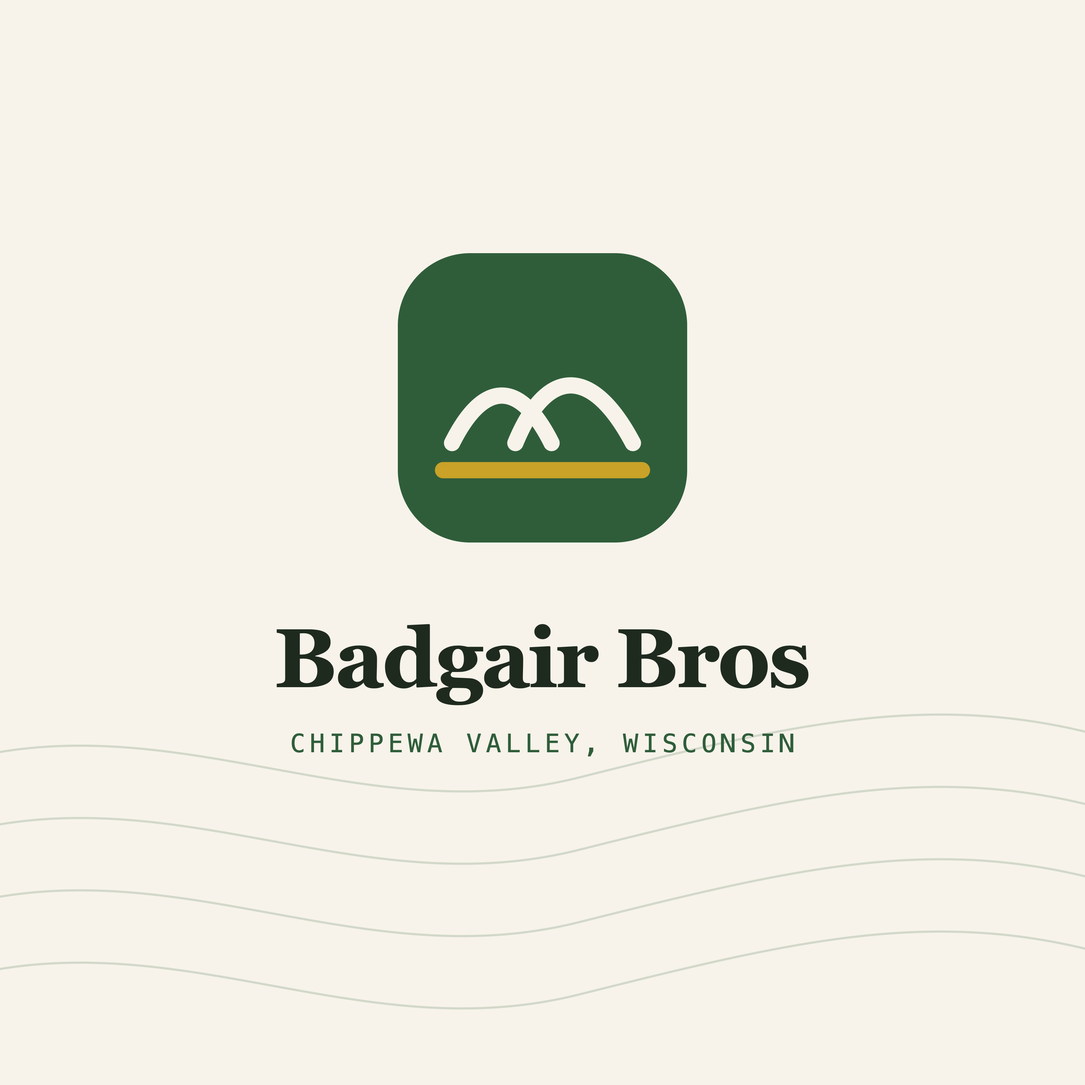
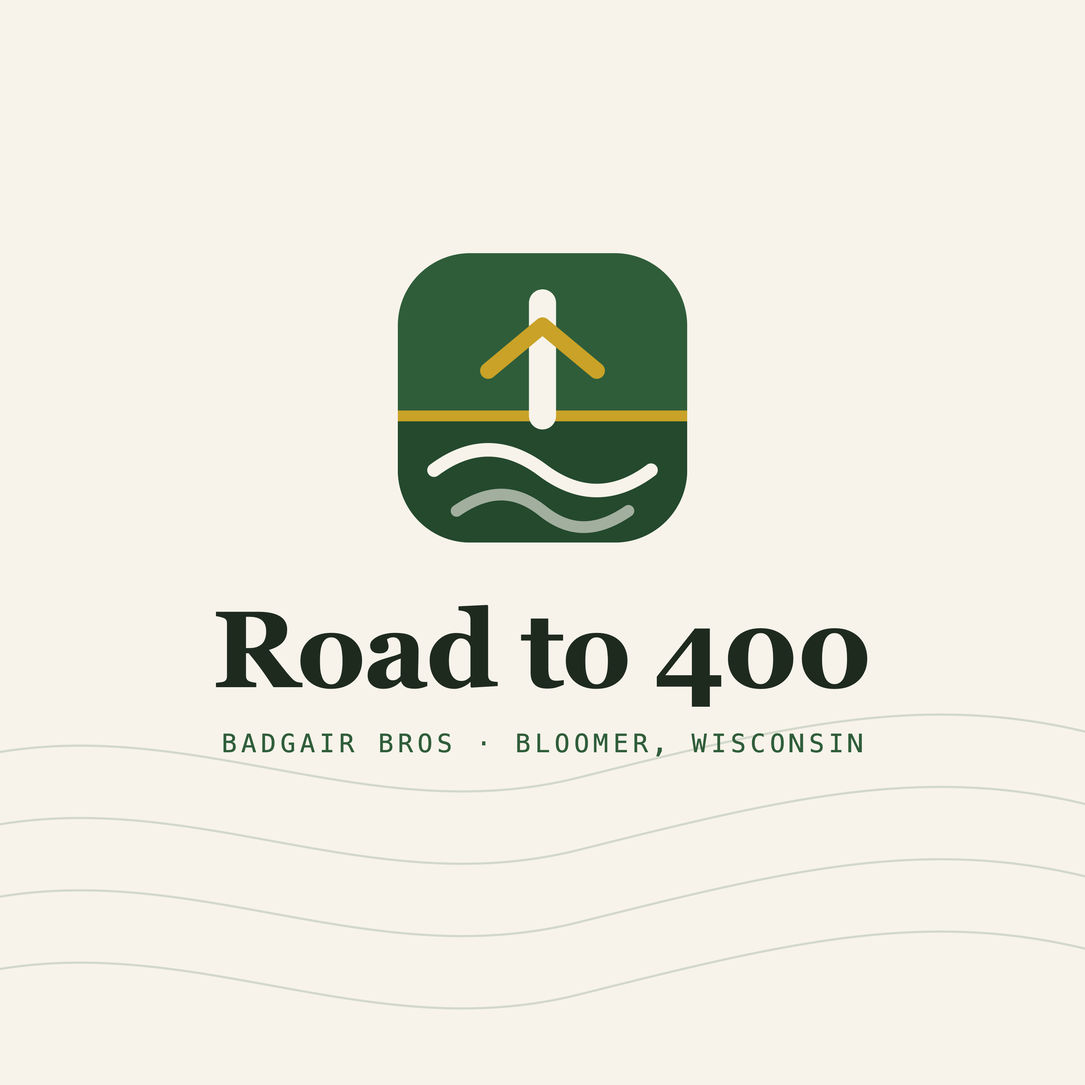
Pinned scroll scene (fly, stitch, read, file) replaces the pointer effects; provisional badger-ground-air mark; Road to 400 podcast copy and cover; quote wording

Changed region(s): [[0.186, 0.558, 0.806, 0.713], [0.372, 0.248, 0.651, 0.496]]

diff --git a/src/app/page.tsx b/src/app/page.tsx
@@ -2,12 +2,9 @@ import Image from "next/image";
 import { site } from "@/lib/site";
 import Reveal from "@/components/reveal";
 import SiteNav from "@/components/nav";
-import Tilt from "@/components/tilt";
 import CountUp from "@/components/count-up";
-import Spotlight from "@/components/spotlight";
-import Canopy from "@/components/canopy";
 import Compare from "@/components/compare";
-import Magnet from "@/components/magnet";
+import Scrolly from "@/components/scrolly";
 import { getEpisodes } from "@/lib/podcast";
 import { BadgairMark, AcrefileMark, Arrow } from "@/components/marks";
 
@@ -47,7 +44,6 @@ export default async function Home() {
 
       {/* ---------- hero ---------- */}
       <section className="relative z-10 mx-auto grid max-w-[1280px] items-center gap-10 px-5 pb-16 pt-14 sm:px-8 lg:grid-cols-12 lg:gap-8 lg:pb-20 lg:pt-20">
-        <Canopy className="absolute inset-0 -z-10 h-full w-full" />
         <div className="relative flex flex-col gap-7 lg:col-span-7 lg:gap-8">
           <p className="mono rise d1 flex items-center gap-3.5 text-[12px] text-moss">
             <span className="h-px w-7 bg-moss" />
@@ -62,30 +58,22 @@ export default async function Home() {
             Drone field mapping and a grower-owned record for the farms of {site.region}. We fly it, your agronomist signs it, and the file is yours for good.
           </p>
           <div className="rise d4 flex flex-wrap items-center gap-3.5">
-            <Magnet href={mailto} className="group flex h-[52px] items-center gap-2.5 rounded-full bg-moss px-6 text-[15px] font-medium text-paper hover:bg-moss-deep hover:shadow-[0_14px_30px_-14px_rgba(47,93,58,0.7)]">
+            <a href={mailto} className="group flex h-[52px] items-center gap-2.5 rounded-full bg-moss px-6 text-[15px] font-medium text-paper transition-[background-color,box-shadow] duration-300 hover:bg-moss-deep hover:shadow-[0_14px_30px_-14px_rgba(47,93,58,0.7)]">
               Book a flight <Arrow className="transition-transform duration-300 group-hover:translate-x-1" />
-            </Magnet>
-            <Magnet href={site.acrefileUrl} className="flex h-[52px] items-center rounded-full border border-line-strong px-6 text-[15px] font-medium text-ink hover:bg-paper-deep">See Acrefile</Magnet>
+            </a>
+            <a href={site.acrefileUrl} className="flex h-[52px] items-center rounded-full border border-line-strong px-6 text-[15px] font-medium text-ink transition-colors duration-300 hover:bg-paper-deep">See Acrefile</a>
           </div>
         </div>
 
         {/* the real field */}
-        <Tilt className="rise d3 lg:col-span-5">
-          <div className="drift overflow-hidden rounded-[22px] border border-line bg-surface shadow-[0_30px_60px_-30px_rgba(31,42,31,0.45),0_2px_4px_rgba(31,42,31,0.06)]">
+        <div className="rise d3 lg:col-span-5">
+          <div className="overflow-hidden rounded-[22px] border border-line bg-surface shadow-[0_30px_60px_-30px_rgba(31,42,31,0.45),0_2px_4px_rgba(31,42,31,0.06)]">
             <div className="relative aspect-[520/380] overflow-hidden bg-paper-deep">
               <Image src="/h3-ortho.jpg" alt="Orthomosaic of field H-3, flown 2 September 2026" fill priority sizes="(min-width: 1024px) 520px, 100vw" className="object-cover" />
-              <div className="sheen pointer-events-none absolute inset-0" />
-              <div className="scanline pointer-events-none absolute inset-x-0 top-0 h-[18%] bg-gradient-to-b from-transparent via-paper/25 to-transparent" />
               <svg viewBox="0 0 640 380" className="absolute inset-0 h-full w-full" preserveAspectRatio="none" aria-hidden="true">
                 <path d={FLIGHT} className="flight-path" fill="none" stroke="#f7f3ea" strokeWidth="1.6" strokeDasharray="6 6" strokeOpacity="0.95" />
                 <g fill="#c9a227" stroke="#1f2a1f" strokeWidth="1">
                   {WAYPOINTS.map(([x, y], i) => <circle key={i} cx={x} cy={y} r="4.5" className="waypoint" style={{ animationDelay: `${0.9 + i * 0.42}s` }} />)}
-                </g>
-                {/* the drone, riding the path once it is drawn */}
-                <g className="drone" style={{ offsetPath: `path("${FLIGHT}")` }}>
-                  <circle r="9" fill="rgba(247,243,234,0.18)" />
-                  <circle r="4" fill="#f7f3ea" stroke="#1f2a1f" strokeWidth="1" />
-                  <path d="M-7 -7 L7 7 M-7 7 L7 -7" stroke="#f7f3ea" strokeWidth="1.2" />
                 </g>
               </svg>
               <span className="mono absolute left-3.5 top-3.5 rounded-full bg-ink/75 px-2.5 py-1.5 text-[10px] text-paper">Flown by us</span>
@@ -100,7 +88,7 @@ export default async function Home() {
               ))}
             </dl>
           </div>
-        </Tilt>
+        </div>
       </section>
 
       {/* ---------- principles ---------- */}
@@ -126,6 +114,17 @@ export default async function Home() {
         </div>
       </div>
 
+      {/* ---------- pinned: how a flight becomes a record ---------- */}
+      <Scrolly
+        image="/h3-ortho.jpg"
+        steps={[
+          { kicker: "01 · Fly", title: "We fly it in the right light.", body: "Wind, sun angle and shutter speed decide the day. The drone flies a lawnmower pattern and shoots a photo every couple of seconds. This flight: 35 photos, nine minutes." },
+          { kicker: "02 · Stitch", title: "Our machine stitches it into one map.", body: "The photos are matched, meshed and blended into a single orthomosaic you can measure from. Fifty-three seconds for this field. No cloud, no monthly fee." },
+          { kicker: "03 · Read", title: "Then you read the field, not a pixel.", body: "Wet corners, skips in the stand, the pasture your cattle actually use. Five centimetres per pixel is enough to count plants." },
+          { kicker: "04 · File", title: "It lands on your record, signed.", body: "The map is filed to the field in Acrefile beside your soil numbers, in words, with your agronomist’s signed recommendation on top. Opened from a text." },
+        ]}
+      />
+
       {/* ---------- what we do ---------- */}
       <section className="relative z-10 mx-auto flex max-w-[1280px] flex-col gap-10 px-5 pb-24 pt-20 sm:px-8 lg:pt-28">
         <div className="flex flex-col items-start justify-between gap-6 lg:flex-row lg:items-end lg:gap-10">
@@ -141,17 +140,10 @@ export default async function Home() {
         <div className="grid gap-6 lg:grid-cols-12">
           {/* mapping */}
           <article id="mapping" className="reveal group relative flex min-h-[460px] flex-col justify-between overflow-hidden rounded-[24px] bg-ink p-8 text-paper transition-transform duration-500 hover:-translate-y-1 sm:p-10 lg:col-span-7">
-            <svg viewBox="0 0 760 460" className="absolute inset-0 h-full w-full opacity-90" preserveAspectRatio="none" aria-hidden="true">
-              <defs><clipPath id="fld"><path d="M420 70 C 520 40, 660 60, 720 110 L 730 330 C 640 380, 520 400, 440 370 Z" /></clipPath></defs>
-              <g clipPath="url(#fld)">
-                <rect x="400" y="30" width="360" height="400" fill="#2f5d3a" />
-                <g stroke="#3f7e48" strokeWidth="10" strokeLinecap="round" fill="none" strokeOpacity="0.9">
-                  {Array.from({ length: 11 }, (_, i) => <path key={i} className="swath" style={{ animationDelay: `${i * 0.09}s` }} d={`M410 ${100 + i * 24} L 740 ${100 + i * 24}`} />)}
-                </g>
-                <g fill="#c9a227" fillOpacity="0.55"><rect x="560" y="140" width="70" height="40" /><rect x="640" y="230" width="50" height="60" /></g>
+            <svg viewBox="0 0 760 460" className="absolute inset-0 h-full w-full opacity-70" preserveAspectRatio="none" aria-hidden="true">
+              <g fill="none" stroke="#3f7e48" strokeWidth="1" strokeOpacity="0.5">
+                {Array.from({ length: 9 }, (_, i) => <path key={i} d={`M380 ${60 + i * 46} C 480 ${20 + i * 46}, 600 ${100 + i * 46}, 780 ${50 + i * 46}`} />)}
               </g>
-              <path d="M420 70 C 520 40, 660 60, 720 110 L 730 330 C 640 380, 520 400, 440 370 Z" fill="none" stroke="#f7f3ea" strokeWidth="1.5" strokeOpacity="0.8" />
-              <path d="M440 380 L 470 80 L 500 380 L 530 80 L 560 380 L 590 80 L 620 380 L 650 80 L 680 380 L 710 80" fill="none" stroke="#f7f3ea" strokeWidth="1" strokeDasharray="5 6" strokeOpacity="0.6" />
             </svg>
             <div className="relative flex max-w-[360px] flex-col gap-3.5">
               <p className="mono text-[12px] text-wheat">01 · Field mapping</p>
@@ -237,7 +229,7 @@ export default async function Home() {
       </section>
 
       {/* ---------- the first flight, in numbers ---------- */}
-      <Spotlight className="z-10 overflow-hidden bg-night text-paper">
+      <section className="relative z-10 overflow-hidden bg-night text-paper">
         <svg viewBox="0 0 1440 120" className="absolute bottom-0 left-0 h-[120px] w-full opacity-35" preserveAspectRatio="none" aria-hidden="true">
           <g stroke="#2f5d3a" strokeWidth="3" strokeLinecap="round">
             {Array.from({ length: 72 }, (_, i) => { const h = 12 + ((i * 37) % 48); return <line key={i} x1={20 + i * 20} y1={65 - h / 2} x2={20 + i * 20} y2={65 + h / 2} />; })}
@@ -269,7 +261,7 @@ export default async function Home() {
             ))}
           </ol>
         </div>
-      </Spotlight>
+      </section>
 
       {/* ---------- listen (appears once the feed exists) ---------- */}
       {site.podcast.feed && site.podcast.name && (

diff --git a/src/components/scrolly.tsx b/src/components/scrolly.tsx
@@ -1,0 +1,139 @@
+"use client";
+
+import Image from "next/image";
+import { useEffect, useRef, useState } from "react";
+
+/**
+ * Pinned scene. The page keeps you here while you scroll, and the field card changes
+ * through four stages: fly, stitch, read, file. Scroll progress drives every animation,
+ * so scrolling back rewinds it. No pointer tricks.
+ */
+
+export type Step = { kicker: string; title: string; body: string };
+
+const FLIGHT = "M40 330 L 110 40 L 180 330 L 250 40 L 320 330 L 390 40 L 460 330 L 530 40 L 600 330";
+const WAYPOINTS: [number, number][] = [[40, 330], [110, 40], [180, 330], [250, 40], [320, 330], [390, 40], [460, 330], [530, 40], [600, 330]];
+const HOTSPOTS: { x: number; y: number; label: string }[] = [
+  { x: 24, y: 62, label: "Wet corner" },
+  { x: 55, y: 30, label: "Skips in the stand" },
+  { x: 74, y: 78, label: "Cattle on the pasture" },
+];
+const NUMBERS = [["pH", "6.6", "in range"], ["OM", "2.4%", "in range"], ["P", "38", "high"], ["K", "97", "a little low"], ["CEC", "7.4", "lighter"], ["S", "6", "low"]];
+const COLS = 6, ROWS = 4;
+
+export default function Scrolly({ steps, image }: { steps: Step[]; image: string }) {
+  const ref = useRef<HTMLElement>(null);
+  const [p, setP] = useState(0);
+
+  useEffect(() => {
+    let raf = 0;
+    const onScroll = () => {
+      cancelAnimationFrame(raf);
+      raf = requestAnimationFrame(() => {
+        const el = ref.current;
+        if (!el) return;
+        const r = el.getBoundingClientRect();
+        const total = r.height - window.innerHeight;
+        setP(total > 0 ? Math.min(1, Math.max(0, -r.top / total)) : 0);
+      });
+    };
+    onScroll();
+    window.addEventListener("scroll", onScroll, { passive: true });
+    window.addEventListener("resize", onScroll);
+    return () => { window.removeEventListener("scroll", onScroll); window.removeEventListener("resize", onScroll); cancelAnimationFrame(raf); };
+  }, []);
+
+  const n = steps.length;
+  const stageF = p * n;
+  const stage = Math.min(n - 1, Math.floor(stageF));
+  const local = Math.min(1, stageF - stage); // 0..1 within the stage
+  const ease = (x: number) => 1 - Math.pow(1 - x, 3);
+  const fly = stage === 0 ? ease(local) : 1;
+  const stitch = stage < 1 ? 0 : stage === 1 ? local : 1;
+  const read = stage < 2 ? 0 : stage === 2 ? ease(local) : 1;
+  const file = stage < 3 ? 0 : ease(local);
+  const PATH_LEN = 2600;
+
+  return (
+    <section ref={ref} className="relative" style={{ height: `${(n + 0.6) * 100}vh` }} aria-label="How a flight becomes a record">
+      <div className="sticky top-0 flex h-screen items-center overflow-hidden">
+        <div className="mx-auto grid w-full max-w-[1280px] items-center gap-8 px-5 sm:px-8 lg:grid-cols-12">
+          {/* words */}
+          <div className="relative min-h-[200px] lg:col-span-4">
+            {steps.map((s, i) => (
+              <div key={s.title} className="absolute inset-x-0 top-0 flex flex-col gap-3 transition-[opacity,transform] duration-500" style={{ opacity: i === stage ? 1 : 0, transform: `translateY(${i === stage ? 0 : i < stage ? -16 : 16}px)`, pointerEvents: i === stage ? "auto" : "none" }}>
+                <p className="mono text-[12px] text-moss">{s.kicker}</p>
+                <h3 className="font-serif text-[clamp(30px,3.6vw,44px)] font-semibold leading-[1.05] tracking-[-0.02em]">{s.title}</h3>
+                <p className="text-[16px] leading-[1.5] text-ink-muted sm:text-[17px]">{s.body}</p>
+              </div>
+            ))}
+            <ol className="absolute -bottom-10 left-0 flex gap-2" aria-hidden="true">
+              {steps.map((s, i) => <li key={s.title} className={`h-1 rounded-full transition-[width,background-color] duration-500 ${i === stage ? "w-8 bg-moss" : "w-3 bg-line-strong"}`} />)}
+            </ol>
+          </div>
+
+          {/* scene */}
+          <div className="relative lg:col-span-8">
+            <div className="relative overflow-hidden rounded-[22px] border border-line bg-surface shadow-[0_30px_60px_-30px_rgba(31,42,31,0.45)]">
+              <div className="relative aspect-[640/380] overflow-hidden bg-paper-deep">
+                <Image src={image} alt="Orthomosaic of field H-3" fill sizes="(min-width: 1024px) 840px, 100vw" className="object-cover" style={{ opacity: 0.35 + 0.65 * stitch, filter: `saturate(${0.6 + 0.4 * stitch})`, transition: "opacity 0.2s, filter 0.2s" }} />
+
+                {/* stitch tiles */}
+                <div className="absolute inset-0 grid" style={{ gridTemplateColumns: `repeat(${COLS}, 1fr)`, gridTemplateRows: `repeat(${ROWS}, 1fr)` }} aria-hidden="true">
+                  {Array.from({ length: COLS * ROWS }, (_, i) => {
+                    const order = ((i % COLS) * 7 + Math.floor(i / COLS) * 3) % (COLS * ROWS);
+                    const on = stitch * (COLS * ROWS) > order;
+                    return <div key={i} className="border border-paper/40 transition-[opacity,background-color] duration-300" style={{ background: on ? "transparent" : "rgba(239,233,219,0.9)", opacity: stage >= 2 ? 0 : 1 }} />;
+                  })}
+                </div>
+
+                {/* flight path + drone */}
+                <svg viewBox="0 0 640 380" className="absolute inset-0 h-full w-full" preserveAspectRatio="none" aria-hidden="true" style={{ opacity: stage >= 2 ? 0.25 : 1, transition: "opacity 0.4s" }}>
+                  <path d={FLIGHT} fill="none" stroke="#f7f3ea" strokeWidth="1.6" strokeDasharray="6 6" strokeOpacity="0.95" style={{ strokeDasharray: `${PATH_LEN}`, strokeDashoffset: PATH_LEN * (1 - fly) }} />
+                  {WAYPOINTS.map(([x, y], i) => <circle key={i} cx={x} cy={y} r="4.5" fill="#c9a227" stroke="#1f2a1f" strokeWidth="1" style={{ opacity: fly * WAYPOINTS.length > i ? 1 : 0, transition: "opacity 0.2s" }} />)}
+                  <g style={{ offsetPath: `path("${FLIGHT}")`, offsetDistance: `${fly * 100}%`, offsetRotate: "0deg", opacity: stage === 0 ? 1 : 0, transition: "opacity 0.3s" }}>
+                    <circle r="10" fill="rgba(247,243,234,0.18)" />
+                    <circle r="4.5" fill="#f7f3ea" stroke="#1f2a1f" strokeWidth="1" />
+                    <path d="M-8 -8 L8 8 M-8 8 L8 -8" stroke="#f7f3ea" strokeWidth="1.3" />
+                  </g>
+                </svg>
+
+                {/* hotspots */}
+                {HOTSPOTS.map((h, i) => {
+                  const t = Math.min(1, Math.max(0, read * 3 - i));
+                  return (
+                    <div key={h.label} className="absolute flex items-center gap-2" style={{ left: `${h.x}%`, top: `${h.y}%`, transform: `translate(-6px, -6px) scale(${0.6 + 0.4 * t})`, opacity: t, transition: "opacity 0.2s, transform 0.2s" }}>
+                      <span className="relative flex h-3 w-3"><span className="absolute inline-flex h-full w-full animate-ping rounded-full bg-wheat opacity-60" /><span className="relative inline-flex h-3 w-3 rounded-full border-2 border-paper bg-wheat" /></span>
+                      <span className="mono rounded-full bg-ink/80 px-2.5 py-1 text-[10px] text-paper">{h.label}</span>
+                    </div>
+                  );
+                })}
+
+                {/* the record slides in */}
+                <div className="absolute inset-y-4 right-4 flex w-[min(300px,60%)] flex-col gap-2.5 rounded-[18px] border border-line bg-paper/95 p-4 shadow-[0_20px_50px_-20px_rgba(31,42,31,0.6)] backdrop-blur" style={{ transform: `translateX(${(1 - file) * 120}%)`, opacity: file, transition: "transform 0.25s, opacity 0.25s" }}>
+                  <p className="mono text-[10px] text-ink-faint">H-3 · Home Farm · filed</p>
+                  <div className="grid grid-cols-3 gap-1.5">
+                    {NUMBERS.map(([k, v, w], i) => (
+                      <div key={k} className="rounded-lg bg-surface p-2" style={{ opacity: file * 6 > i ? 1 : 0, transition: "opacity 0.2s" }}>
+                        <p className="text-[9px] text-ink-faint">{k}</p>
+                        <p className="font-serif text-[17px] font-semibold leading-none">{v}</p>
+                        <p className={`mt-1 inline-block rounded-full px-1 text-[8px] font-medium ${w === "low" ? "bg-[#f6e3dc] text-[#a8442c]" : w.includes("little") ? "bg-wheat-soft text-ink" : w === "in range" ? "bg-moss-soft text-moss-deep" : "bg-paper-deep text-ink-faint"}`}>{w}</p>
+                      </div>
+                    ))}
+                  </div>
+                  <div className="rounded-lg border border-wheat bg-wheat-soft p-2 text-[10px] leading-[1.35]" style={{ opacity: file > 0.85 ? 1 : 0, transition: "opacity 0.3s" }}>Hold K this year. Retest in three. <span className="font-serif italic">— signed, your agronomist</span></div>
+                </div>
+
+                <span className="mono absolute left-3.5 top-3.5 rounded-full bg-ink/75 px-2.5 py-1.5 text-[10px] text-paper">{["Flying", "Stitching", "Reading", "Filed"][stage]}</span>
+              </div>
+              <div className="flex items-center justify-between border-t border-line px-4 py-3">
+                <span className="mono text-[10px] text-ink-faint">H-3 · Home Farm · 2 Sep 2026</span>
+                <span className="mono text-[10px] text-ink-faint">{Math.round(p * 100)}%</span>
+              </div>
+            </div>
+          </div>
+        </div>
+      </div>
+    </section>
+  );
+}

diff --git a/src/app/globals.css b/src/app/globals.css
@@ -71,13 +71,9 @@ body {
 .flight-path { stroke-dasharray: 2600; stroke-dashoffset: 2600; animation: draw 4s cubic-bezier(0.4, 0, 0.2, 1) 0.9s forwards; }
 @keyframes pop { from { transform: scale(0); opacity: 0; } to { transform: scale(1); opacity: 1; } }
 .waypoint { transform-origin: center; transform-box: fill-box; animation: pop 0.35s cubic-bezier(0.2, 0.7, 0.2, 1) both; }
-@keyframes drift { from { transform: translateY(0); } to { transform: translateY(-12px); } }
-.drift { animation: drift 9s ease-in-out infinite alternate; }
-@keyframes scan { from { transform: translateY(-10%); opacity: 0; } 15% { opacity: 1; } 85% { opacity: 1; } to { transform: translateY(110%); opacity: 0; } }
-.scanline { animation: scan 7s linear 5s infinite; }
 
 @media (prefers-reduced-motion: reduce) {
-  .rise, .reveal, .flight-path, .waypoint, .drift, .scanline { animation: none !important; transition: none !important; opacity: 1 !important; transform: none !important; stroke-dashoffset: 0 !important; }
+  .rise, .reveal, .flight-path, .waypoint { animation: none !important; transition: none !important; opacity: 1 !important; transform: none !important; stroke-dashoffset: 0 !important; }
 }
 
 /* ---------- pizazz ---------- */
@@ -88,27 +84,13 @@ body {
 @keyframes lineup { to { transform: translateY(0); } }
 .mask:nth-child(1) > span { animation-delay: 0.15s; } .mask:nth-child(2) > span { animation-delay: 0.3s; } .mask:nth-child(3) > span { animation-delay: 0.45s; }
 
-/* 3D tilt card */
-.tilt > * { transform: rotateX(var(--rx, 0deg)) rotateY(var(--ry, 0deg)); transition: transform 0.35s cubic-bezier(0.2, 0.7, 0.2, 1); transform-style: preserve-3d; will-change: transform; }
-.sheen { background: radial-gradient(420px circle at var(--sx, 50%) var(--sy, 50%), rgba(247,243,234,0.22), transparent 60%); }
-
-/* The drone follows the flight path */
-@keyframes fly { from { offset-distance: 0%; } to { offset-distance: 100%; } }
-.drone { offset-rotate: 0deg; animation: fly 16s linear 4.8s infinite; }
 
 /* Ticker between sections */
 @keyframes ticker { from { transform: translateX(0); } to { transform: translateX(-50%); } }
 .ticker { animation: ticker 38s linear infinite; }
 .ticker-wrap:hover .ticker { animation-play-state: paused; }
 
-/* Swaths in the mapping card light up when the card is revealed */
-.swath { stroke-dasharray: 340; stroke-dashoffset: 340; }
-.reveal.in .swath { animation: draw-swath 1.1s cubic-bezier(0.4, 0, 0.2, 1) forwards; }
-@keyframes draw-swath { to { stroke-dashoffset: 0; } }
 
-/* Pointer spotlight on the dark band */
-.spotlight { position: relative; }
-.spotlight::before { content: ""; position: absolute; inset: 0; pointer-events: none; background: radial-gradient(560px circle at var(--mx, 30%) var(--my, 40%), rgba(63,126,72,0.28), transparent 60%); transition: opacity 0.4s; }
 
 /* Contours drift up as you scroll (scroll-driven animation; browsers without it just keep them still) */
 @supports (animation-timeline: scroll()) {
@@ -133,6 +115,5 @@ body {
 @keyframes caret { 50% { border-color: transparent; } }
 
 @media (prefers-reduced-motion: reduce) {
-  .mask > span, .drone, .ticker, .swath, .typed, .contours, .pipeline .step, .pipeline .step .dot { animation: none !important; transform: none !important; stroke-dashoffset: 0 !important; width: 100% !important; border-right: 0 !important; }
-  .tilt > * { transform: none !important; }
+  .mask > span, .ticker, .typed, .contours, .pipeline .step, .pipeline .step .dot { animation: none !important; transform: none !important; stroke-dashoffset: 0 !important; width: 100% !important; border-right: 0 !important; }
 }

diff --git a/src/components/marks.tsx b/src/components/marks.tsx
@@ -1,11 +1,18 @@
-/** Badgair Bros: two furrows over one wheat horizon. Same drawing as docs/brand in the Acrefile repo. */
+/**
+ * Badgair Bros: badger + ground + air. The badger's white face stripe runs up through the
+ * mark; below the wheat horizon the ground is drawn as furrows, above it the air holds the
+ * drone as a chevron. (Candidate C, provisional until Garrett picks.)
+ */
 export function BadgairMark({ size = 30, className = "" }: { size?: number; className?: string }) {
   return (
     <svg width={size} height={size} viewBox="0 0 32 32" fill="none" aria-hidden="true" className={className}>
       <rect width="32" height="32" rx="8" fill="#2f5d3a" />
-      <path d="M6 21c3.5-7 7.5-7 11 0" stroke="#f7f3ea" strokeWidth="1.8" strokeLinecap="round" />
-      <path d="M13 21c3.5-8.5 8.5-8.5 13 0" stroke="#f7f3ea" strokeWidth="1.8" strokeLinecap="round" />
-      <path d="M5 24h22" stroke="#c9a227" strokeWidth="1.8" strokeLinecap="round" />
+      <path d="M0 18h32v6a8 8 0 0 1-8 8H8a8 8 0 0 1-8-8z" fill="#24492d" />
+      <path d="M0 18h32" stroke="#c9a227" strokeWidth="1.2" />
+      <path d="M4 24c4-3 8-3 12 0s8 3 12 0" stroke="#f7f3ea" strokeWidth="1.5" strokeLinecap="round" />
+      <path d="M6.5 28.5c3.5-2.4 6.5-2.4 9.5 0s6 2.4 9.5 0" stroke="#f7f3ea" strokeWidth="1.3" strokeLinecap="round" strokeOpacity="0.6" />
+      <path d="M16 5.5v12.5" stroke="#f7f3ea" strokeWidth="3" strokeLinecap="round" />
+      <path d="M10 13l6-5 6 5" stroke="#c9a227" strokeWidth="1.8" strokeLinecap="round" strokeLinejoin="round" />
     </svg>
   );
 }

diff --git a/src/lib/site.ts b/src/lib/site.ts
@@ -21,8 +21,9 @@ export const site = {
   pricing: "Priced per acre, one number, the map is yours to keep. Ask us for a quote.",
   /** Podcast: fill in once the RSS.com show exists. The Listen section stays hidden while feed is null. */
   podcast: {
-    name: null as string | null,
-    blurb: "Two brothers, one farm, twenty minutes a month. What we’re seeing in the field and what the numbers actually say. No sales pitch.",
+    /** Working title (Garrett, 2026-09-05): the road to 400-bushel corn on a small farm. */
+    name: "Road to 400" as string | null,
+    blurb: "Two brothers chasing 400-bushel corn on a small Wisconsin farm. Timing, plant biology, and what a dollar an acre actually buys in bushels. No sales pitch.",
     feed: null as string | null,
     apple: null as string | null,
     spotify: null as string | null,

diff --git a/docs/podcast.md b/docs/podcast.md
@@ -3,16 +3,29 @@
 Garrett chose to explore RSS.com's free "Local & Niche" plan. Claude cannot create the account; this is what the sign-up asks for and what is ready.
 
 ## What RSS.com asks at sign-up
-1. **Account**: email (use office@badgairbros.com once the forwarder is verified, otherwise badgairbros@gmail.com) and a password. Free plan: one show, unlimited episodes, no inserted ads, 90 days of analytics, one-click submission to Apple Podcasts, Spotify, Amazon, and the rest.
+1. **Account**: sign up at https://dashboard.rss.com/auth/sign-up/ with office@badgairbros.com once the forwarder is verified (otherwise badgairbros@gmail.com) and a password. Free plan: one show, unlimited episodes, no inserted ads, 90 days of analytics, one-click submission to Apple Podcasts, Spotify, Amazon, and the rest.
 2. **Show name** (pick one; candidates below), **description** (≤ 4,000 characters; the blurb in `src/lib/site.ts` is a start), **category** (Science → Earth Sciences, or Business → Entrepreneurship; most farm shows sit under "Science"), **language** English, **explicit** no.
-3. **Cover art**: square PNG or JPEG, 3000 × 3000 px, under 512 KB, RGB. Draft at `public/podcast-cover.png` (the Badgair mark on paper with the show name to be added once chosen).
+3. **Cover art**: square PNG or JPEG, 3000 × 3000 px, under 512 KB, RGB. Draft at `public/podcast-cover.png` ("Road to 400" with the mark on paper, 340 KB). Redo the mark if Garrett picks a different candidate.
 4. **First episode**: MP3, mono is fine, 96–128 kbps. Recording on two phones in the truck is enough for episode one; buy nothing until three episodes exist.
 
-## Name candidates (three beats, like the motto)
-- **The Home Farm** — plain, ownable, ties to the site copy ("two brothers, one farm").
-- **Ground Truth** — the mapping term for checking a map against the field; says what the show does.
-- **Your Call** — the last beat of the motto; each episode ends with what the grower decides.
-- **Bloomer Ground** — local first; ages well if the show stays regional.
+## Name: **Road to 400** (working title, Garrett 2026-09-05)
+Justin's goal is 400-bushel corn on a small farm. The show is the road there: timing, plant biology and chemistry, nutrients at the critical moments, and the acre math (what a pass costs per acre against the bushels it returns). Alternates kept in case: Ground Truth, The Home Farm, Your Call, The Acre Math.
+
+### Descriptions (pick a length; RSS.com shows the short one in lists)
+- **One line:** Two brothers chasing 400-bushel corn on a small Wisconsin farm. Timing, plant biology, and what a dollar an acre actually buys in bushels.
+- **Short (≈ 60 words):** Road to 400 is two brothers on the home farm outside Bloomer, Wisconsin, working toward 400-bushel corn without the biggest equipment on the road. Each month: what the crop is doing right now, which nutrient matters this week and why, and the acre math on every pass, herbicide, fungicide or foliar, in dollars per acre against bushels per acre. No sales pitch.
+- **Long (≈ 140 words):** Most farms in the Chippewa Valley are not big. Road to 400 starts from that: you cannot buy your way to yield, but you can out-think the calendar. Justin farms the ground and keeps the books; Garrett flies the drone and builds Acrefile, the grower-owned field record. Twenty minutes a month on what the plant needs at each stage, the soil and tissue numbers behind it, when a pass pays and when it does not, and what the two of them actually did on H-3 that week. Guests when it helps: the agronomist who signs the plan, the lab, the neighbor who tried it first. Numbers, not slogans; a spreadsheet, not a sponsor. The goal is 400 bushels. The point is every acre a small farmer already has.
+
+### Recurring segments (so episodes write themselves)
+- **The Acre Math**: one pass, its cost per acre, the bushels it needs to return, and whether it did. Justin's price-per-acre habit as a segment.
+- **What the plant wants this week**: growth stage, the nutrient that matters, the window to apply it.
+- **From the file**: one number from H-3's record (soil, tissue, yield) and what it changed.
+- **Your call**: the decision the listener faces next; ends the episode.
+
+### First three episodes
+1. Why 400, and why a small farm can get there (the thesis; the equipment myth; the calendar).
+2. The six numbers on a soil test that matter, in words (pH, OM, P, K, CEC, S; what H-3 says).
+3. A pass that paid and one that didn't: the acre math on last season's herbicide and fungicide.
 
 ## Wiring it into the site
 Set `site.podcast.name`, `feed` (RSS.com gives `https://media.rss.com/<slug>/feed.xml`), `apple`, `spotify`, and `rsscom` in `src/lib/site.ts`. The Listen band appears on the next deploy and lists the four latest episodes from the feed, refreshed hourly. Acrefile stays out of it (Garrett, 2026-09-05).
